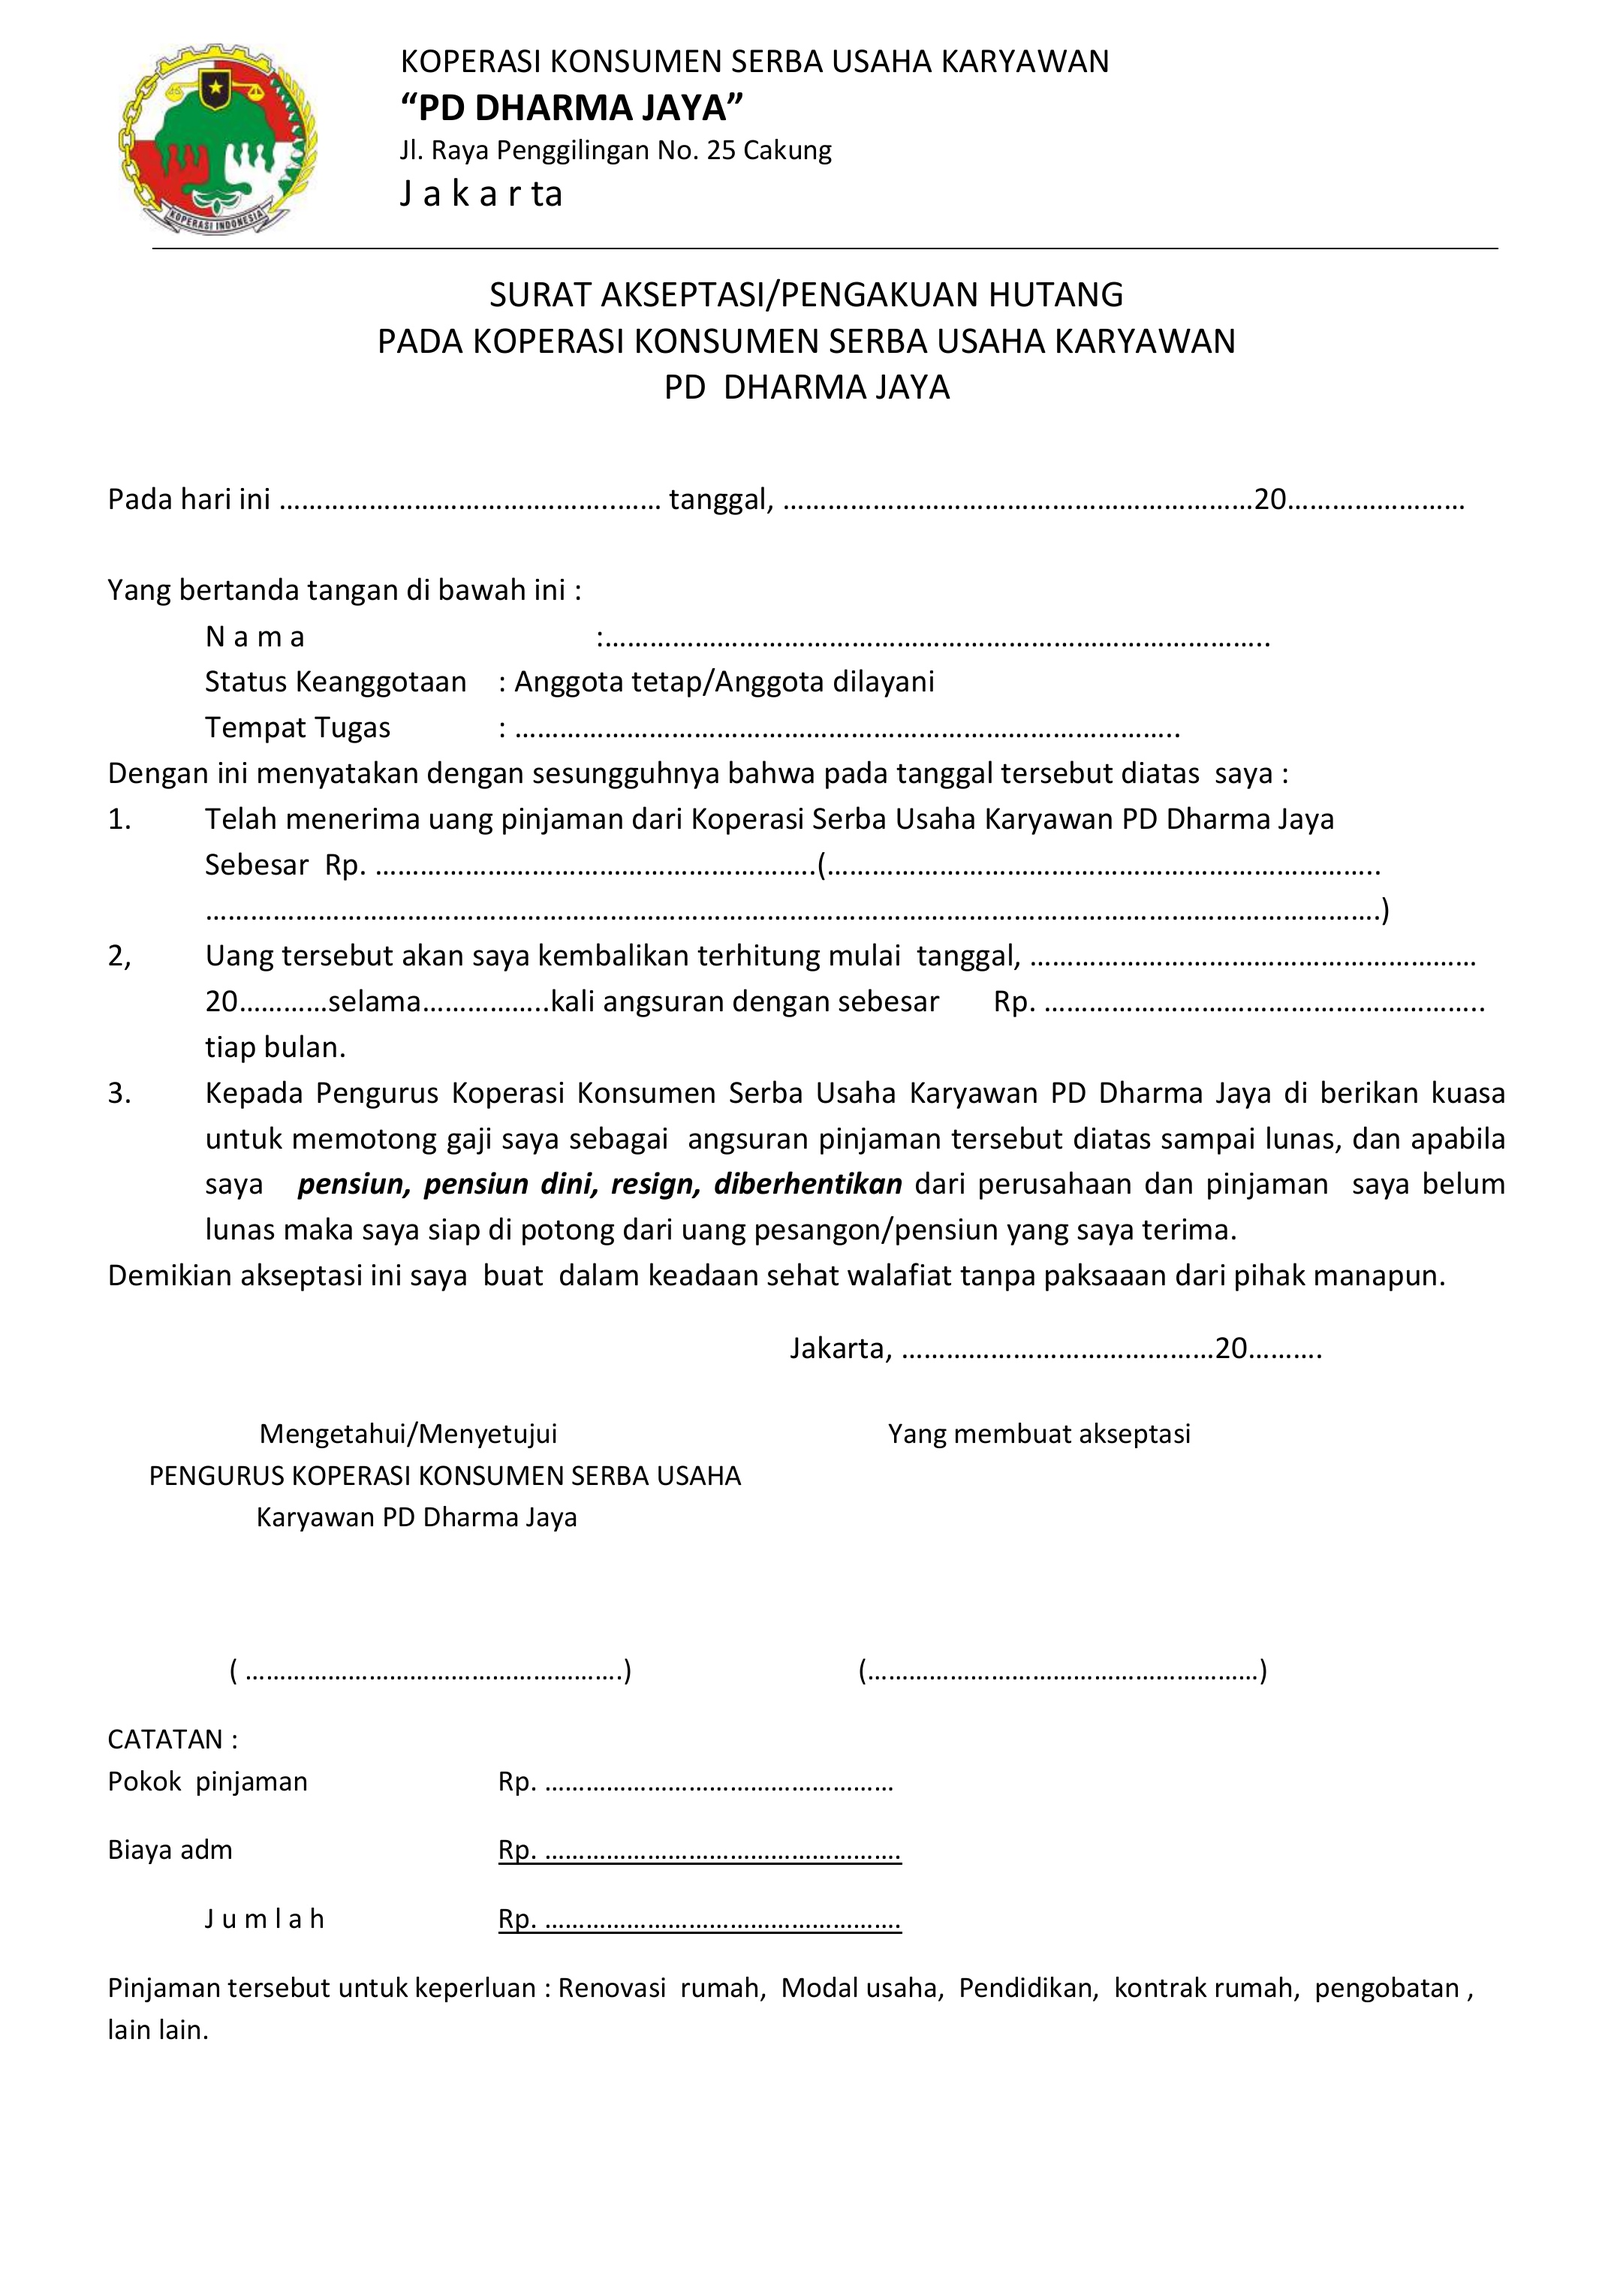
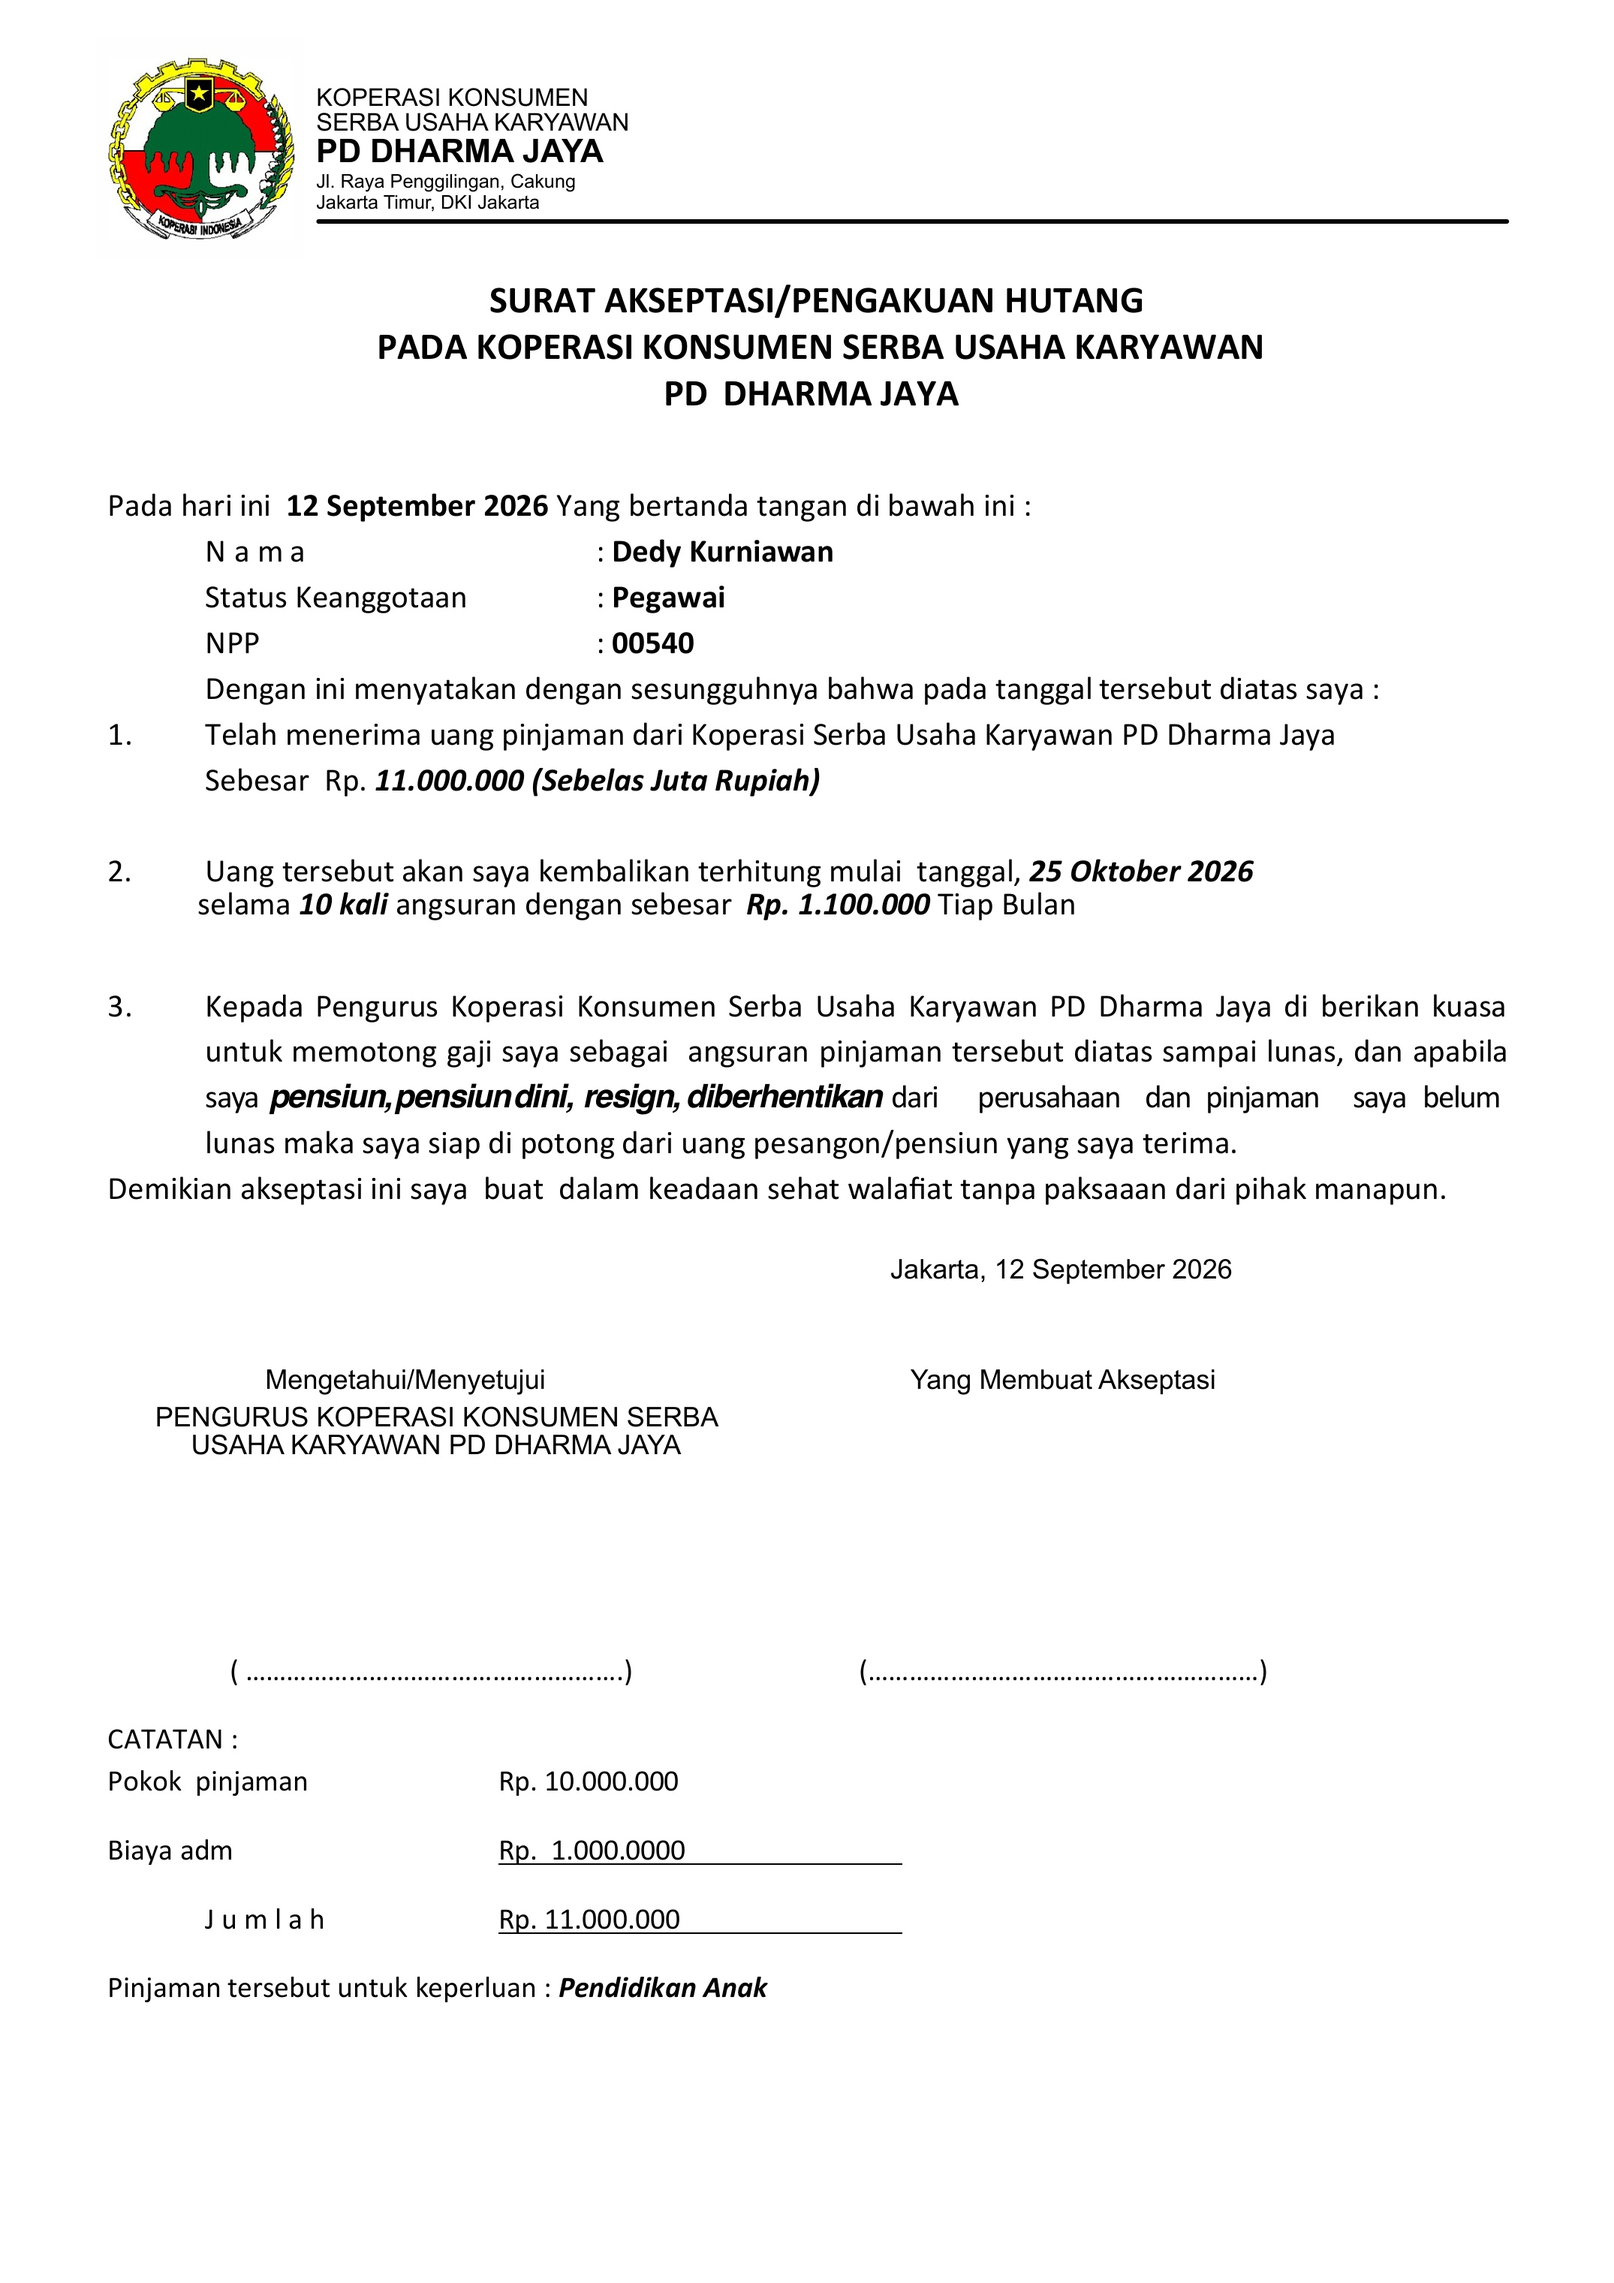
Update loan acceptance form

diff --git a/internal/app/loan_reports.go b/internal/app/loan_reports.go
@@ -24,6 +24,7 @@ type loanReportData struct {
 	Loan            Loan
 	Language        string
 	MemberNo        string
+	MemberNPP       string
 	MemberName      string
 	MemberType      string
 	MemberStatus    string
@@ -113,12 +114,7 @@ func (s *Server) exportLoanAcceptancePDF(c *gin.Context) {
 	if !ok {
 		return
 	}
-	background, err := loanReportTemplates.ReadFile("templates/loan-acceptance-form.jpg")
-	if err != nil {
-		respondError(c, http.StatusInternalServerError, "INTERNAL_SERVER_ERROR", translate(languageFromRequest(c), "error.Internal server error"))
-		return
-	}
-	pdf, err := buildLoanFormPDF(background, loanAcceptanceFormText(report), loanAcceptanceFormMasks(report))
+	pdf, err := buildLoanAcceptanceFormPDF(report)
 	if err != nil {
 		respondError(c, http.StatusInternalServerError, "INTERNAL_SERVER_ERROR", translate(languageFromRequest(c), "error.Internal server error"))
 		return
@@ -126,6 +122,66 @@ func (s *Server) exportLoanAcceptancePDF(c *gin.Context) {
 	filename := "surat-akseptasi-pinjaman-" + safeLoanReportFilename(report.Loan.ID) + ".pdf"
 	c.Header("Content-Disposition", fmt.Sprintf(`attachment; filename="%s"`, filename))
 	c.Data(http.StatusOK, "application/pdf", pdf)
+}
+
+func (s *Server) exportLoanRequestAcceptancePDF(c *gin.Context) {
+	lang := languageFromRequest(c)
+	report, err := s.loanRequestAcceptanceReportData(c.Param("id"), lang)
+	if errors.Is(err, sql.ErrNoRows) {
+		respondError(c, http.StatusNotFound, "NOT_FOUND", translate(lang, "error.Loan request not found"))
+		return
+	}
+	if err != nil {
+		respondError(c, http.StatusInternalServerError, "INTERNAL_SERVER_ERROR", translate(lang, "error.Internal server error"))
+		return
+	}
+	pdf, err := buildLoanAcceptanceFormPDF(report)
+	if err != nil {
+		respondError(c, http.StatusInternalServerError, "INTERNAL_SERVER_ERROR", translate(lang, "error.Internal server error"))
+		return
+	}
+	filename := "surat-akseptasi-pinjaman-" + safeLoanReportFilename(report.Loan.ID) + ".pdf"
+	c.Header("Content-Disposition", fmt.Sprintf(`attachment; filename="%s"`, filename))
+	c.Data(http.StatusOK, "application/pdf", pdf)
+}
+
+func (s *Server) loanRequestAcceptanceReportData(requestID, language string) (loanReportData, error) {
+	request, err := s.loanRequestByID(requestID)
+	if err != nil {
+		return loanReportData{}, err
+	}
+	application, err := s.loanApplicationFormDataFromRequest(request)
+	if err != nil {
+		return loanReportData{}, err
+	}
+	return loanReportData{
+		Loan: Loan{
+			ID:                 request.ID,
+			LoanRequestID:      request.ID,
+			MemberID:           request.MemberID,
+			ApprovedAmount:     application.ApprovedAmount,
+			DurationMonths:     application.ApprovedDuration,
+			MonthlyInstallment: application.MonthlyInstallment,
+			StartDate:          request.ProposedStartDate,
+			TotalAdminFee:      application.TotalAdminFee,
+			TotalObligation:    application.TotalObligation,
+		},
+		Language:     language,
+		MemberNo:     application.MemberNo,
+		MemberNPP:    application.MemberNo,
+		MemberName:   application.FullName,
+		MemberType:   application.MemberType,
+		MemberStatus: application.MemberStatus,
+		Purpose:      application.Purpose,
+	}, nil
+}
+
+func buildLoanAcceptanceFormPDF(report loanReportData) ([]byte, error) {
+	background, err := loanReportTemplates.ReadFile("templates/loan-acceptance-form.jpg")
+	if err != nil {
+		return nil, err
+	}
+	return buildLoanFormPDF(background, loanAcceptanceFormText(report), loanAcceptanceFormMasks(report))
 }
 
 func (s *Server) loanReportData(c *gin.Context) (loanReportData, bool) {
@@ -143,14 +199,14 @@ func (s *Server) loanReportData(c *gin.Context) (loanReportData, bool) {
 	report := loanReportData{Loan: loan, Language: lang}
 	var requestDate any
 	err = s.db.QueryRow(
-		`SELECT m.member_no, m.full_name, COALESCE(m.member_type,'employee'), COALESCE(m.status,'active'),
+		`SELECT m.member_no, COALESCE(NULLIF(TRIM(m.old_npp),''),m.member_no,''), m.full_name, COALESCE(m.member_type,'employee'), COALESCE(m.status,'active'),
 			COALESCE(r.purpose,''), COALESCE(r.requested_amount,l.approved_amount),
 			COALESCE(r.duration_months,l.duration_months), COALESCE(r.created_at,l.created_at)
 		FROM loans l
 		JOIN members m ON m.id=l.member_id
 		LEFT JOIN loan_requests r ON r.id=l.loan_request_id
 		WHERE l.id=$1`, loan.ID,
-	).Scan(&report.MemberNo, &report.MemberName, &report.MemberType, &report.MemberStatus, &report.Purpose, &report.RequestAmount, &report.RequestDuration, &requestDate)
+	).Scan(&report.MemberNo, &report.MemberNPP, &report.MemberName, &report.MemberType, &report.MemberStatus, &report.Purpose, &report.RequestAmount, &report.RequestDuration, &requestDate)
 	if err != nil {
 		respondError(c, http.StatusInternalServerError, "INTERNAL_SERVER_ERROR", translate(lang, "error.Internal server error"))
 		return loanReportData{}, false
@@ -323,62 +379,61 @@ func loanApprovalFormText(report loanReportData, stage string, y float64) loanPD
 }
 
 func loanAcceptanceFormText(report loanReportData) []loanPDFText {
-	date := loanReportDateLong(report.Loan.StartDate)
-	if date == "" {
-		date = loanReportDateLong(time.Now().In(jakartaLocation).Format("2006-01-02"))
+	acceptanceDate := loanReportDateLong(time.Now().In(jakartaLocation).Format("2006-01-02"))
+	startDate := loanReportDateLong(report.Loan.StartDate)
+	if startDate == "" {
+		startDate = acceptanceDate
 	}
-	amountWords, remainingAmountWords := splitLoanPDFText(indonesianRupiahWords(report.Loan.ApprovedAmount), 58)
-	if remainingAmountWords == "" {
-		amountWords += ")"
+	npp := strings.TrimSpace(report.MemberNPP)
+	if npp == "" {
+		npp = report.MemberNo
+	}
+	memberType := memberTypeLabel(report.MemberType)
+	if memberType == "" {
+		memberType = "Anggota"
+	}
+	acceptedAmount := report.Loan.TotalObligation
+	if acceptedAmount <= 0 {
+		acceptedAmount = report.Loan.ApprovedAmount + report.Loan.TotalAdminFee
+	}
+	if acceptedAmount <= 0 {
+		acceptedAmount = report.Loan.ApprovedAmount
 	}
 	texts := []loanPDFText{
-		{275, 312.5, 8, date, 42},
-		{366, 396.5, 8, report.MemberName + " (" + report.MemberNo + ")", 65},
-		// The membership choices are printed on the source form; the loan profile does not
-		// identify which of those choices to mark.
-		{316, 452.5, 8, "", 0}, // Workplace is not recorded in the member profile.
-		{230, 536.5, 8, formatLoanReportAmount(report.Loan.ApprovedAmount), 32},
-		{508, 536.5, 8, amountWords, 59},
-		{632, 592.4, 8, date, 32},
-		{301, 620.5, 8, strconv.Itoa(report.Loan.DurationMonths), 16},
-		{642, 620.5, 8, formatLoanReportAmount(report.Loan.MonthlyInstallment), 28},
-		{553, 833.2, 8, date, 42},
-		{337, 1098.2, 8, formatLoanReportAmount(report.Loan.ApprovedAmount), 32},
-		{337, 1140.5, 8, formatLoanReportAmount(report.Loan.TotalAdminFee), 32},
-		{337, 1182.7, 8, formatLoanReportAmount(report.Loan.TotalObligation), 32},
-		{66, 1272, 7, translate(report.Language, "purpose") + ": " + report.Purpose, 122},
-	}
-	if remainingAmountWords != "" {
-		texts = append(texts, loanPDFText{126, 564.5, 8, remainingAmountWords, 100})
+		{176, 322, 8.5, acceptanceDate, 32},
+		{376, 350, 8.5, report.MemberName, 50},
+		{376, 378, 8.5, memberType, 24},
+		{376, 406, 8.5, npp, 32},
+		{230, 490, 8.5, formatLoanReportAmount(acceptedAmount), 32},
+		{326, 490, 8.5, "(" + indonesianRupiahWords(acceptedAmount) + ")", 60},
+		{632, 546, 8.5, startDate, 36},
+		{184, 566, 8.5, strconv.Itoa(report.Loan.DurationMonths), 3},
+		{490, 566, 8.5, formatLoanReportAmount(report.Loan.MonthlyInstallment), 12},
+		{610, 788, 8.5, acceptanceDate, 32},
+		{334, 1103, 8.5, formatLoanReportAmount(report.Loan.ApprovedAmount), 32},
+		{338, 1145, 8.5, formatLoanReportAmount(report.Loan.TotalAdminFee), 32},
+		{334, 1187, 8.5, formatLoanReportAmount(acceptedAmount), 32},
+		{343, 1229, 8, report.Purpose, 70},
 	}
 	return texts
 }
 
-func loanAcceptanceFormMasks(report loanReportData) []loanPDFMask {
-	date := loanReportDateLong(report.Loan.StartDate)
-	if date == "" {
-		date = loanReportDateLong(time.Now().In(jakartaLocation).Format("2006-01-02"))
+func loanAcceptanceFormMasks(_ loanReportData) []loanPDFMask {
+	return []loanPDFMask{
+		{x: 175, y: 300, width: 165, height: 23},
+		{x: 375, y: 328, width: 500, height: 23},
+		{x: 375, y: 356, width: 500, height: 23},
+		{x: 375, y: 384, width: 500, height: 23},
+		{x: 230, y: 468, width: 640, height: 23},
+		{x: 631, y: 524, width: 200, height: 23},
+		{x: 184, y: 544, width: 24, height: 23},
+		{x: 490, y: 544, width: 82, height: 23},
+		{x: 610, y: 770, width: 170, height: 19},
+		{x: 334, y: 1083, width: 145, height: 21},
+		{x: 338, y: 1125, width: 145, height: 21},
+		{x: 334, y: 1168, width: 145, height: 21},
+		{x: 343, y: 1210, width: 500, height: 21},
 	}
-	amountWords, remainingAmountWords := splitLoanPDFText(indonesianRupiahWords(report.Loan.ApprovedAmount), 58)
-	var masks []loanPDFMask
-	masks = appendLoanPDFFieldMask(masks, date, 171, 312.5, 235)
-	masks = appendLoanPDFFieldMask(masks, report.MemberName+" ("+report.MemberNo+")", 370, 396.5, 413)
-	masks = appendLoanPDFFieldMask(masks, formatLoanReportAmount(report.Loan.ApprovedAmount), 230, 536.5, 271)
-	masks = appendLoanPDFFieldMask(masks, amountWords, 507, 536.5, 342)
-	if remainingAmountWords == "" {
-		masks = append(masks, loanPDFMask{x: 126, y: 564.5 - 16, width: 730, height: 22})
-	} else {
-		masks = append(masks, loanPDFMask{x: 126, y: 564.5 - 11, width: 721, height: 14})
-	}
-	masks = appendLoanPDFFieldMask(masks, date, 631, 592.4, 278)
-	masks = appendLoanPDFFieldMask(masks, strconv.Itoa(report.Loan.DurationMonths), 259, 620.5, 80)
-	masks = appendLoanPDFFieldMask(masks, formatLoanReportAmount(report.Loan.MonthlyInstallment), 640, 620.5, 274)
-	if strings.TrimSpace(date) != "" {
-		masks = append(masks, loanPDFMask{x: 552, y: 833.2 - 16, width: 261, height: 22})
-	}
-	masks = appendLoanPDFFieldMask(masks, formatLoanReportAmount(report.Loan.ApprovedAmount), 334, 1098.2, 219)
-	masks = appendLoanPDFFieldMask(masks, formatLoanReportAmount(report.Loan.TotalAdminFee), 334, 1140.5, 219)
-	return appendLoanPDFFieldMask(masks, formatLoanReportAmount(report.Loan.TotalObligation), 334, 1182.7, 219)
 }
 
 func splitLoanPDFText(value string, maxRunes int) (string, string) {

diff --git a/internal/app/server.go b/internal/app/server.go
@@ -113,6 +113,7 @@ func NewServer(cfg Config, db *sql.DB) http.Handler {
 	admin.POST("/loan-requests/:id/override-approve", server.requirePermission(PermissionRequestsOverride), server.overrideLoanRequest)
 	admin.POST("/loan-requests/:id/override-reject", server.requirePermission(PermissionRequestsOverride), server.overrideLoanRejection)
 	admin.GET("/loan-requests/:id/application-form.pdf", server.requirePermission(PermissionRequestsView), server.exportLoanRequestApplicationFormPDF)
+	admin.GET("/loan-requests/:id/acceptance-form.pdf", server.requirePermission(PermissionRequestsView), server.exportLoanRequestAcceptancePDF)
 	admin.GET("/loan-requests/:id/disbursement-form.pdf", server.requirePermission(PermissionLoansManage), server.exportLoanDisbursementApplicationFormPDF)
 	admin.GET("/withdrawal-requests/:id/application-form.pdf", server.requirePermission(PermissionRequestsView), server.exportWithdrawalRequestApplicationFormPDF)
 	admin.POST("/loan-requests/:id/disburse", server.requirePermission(PermissionLoansManage), server.disburseLoanRequest)
